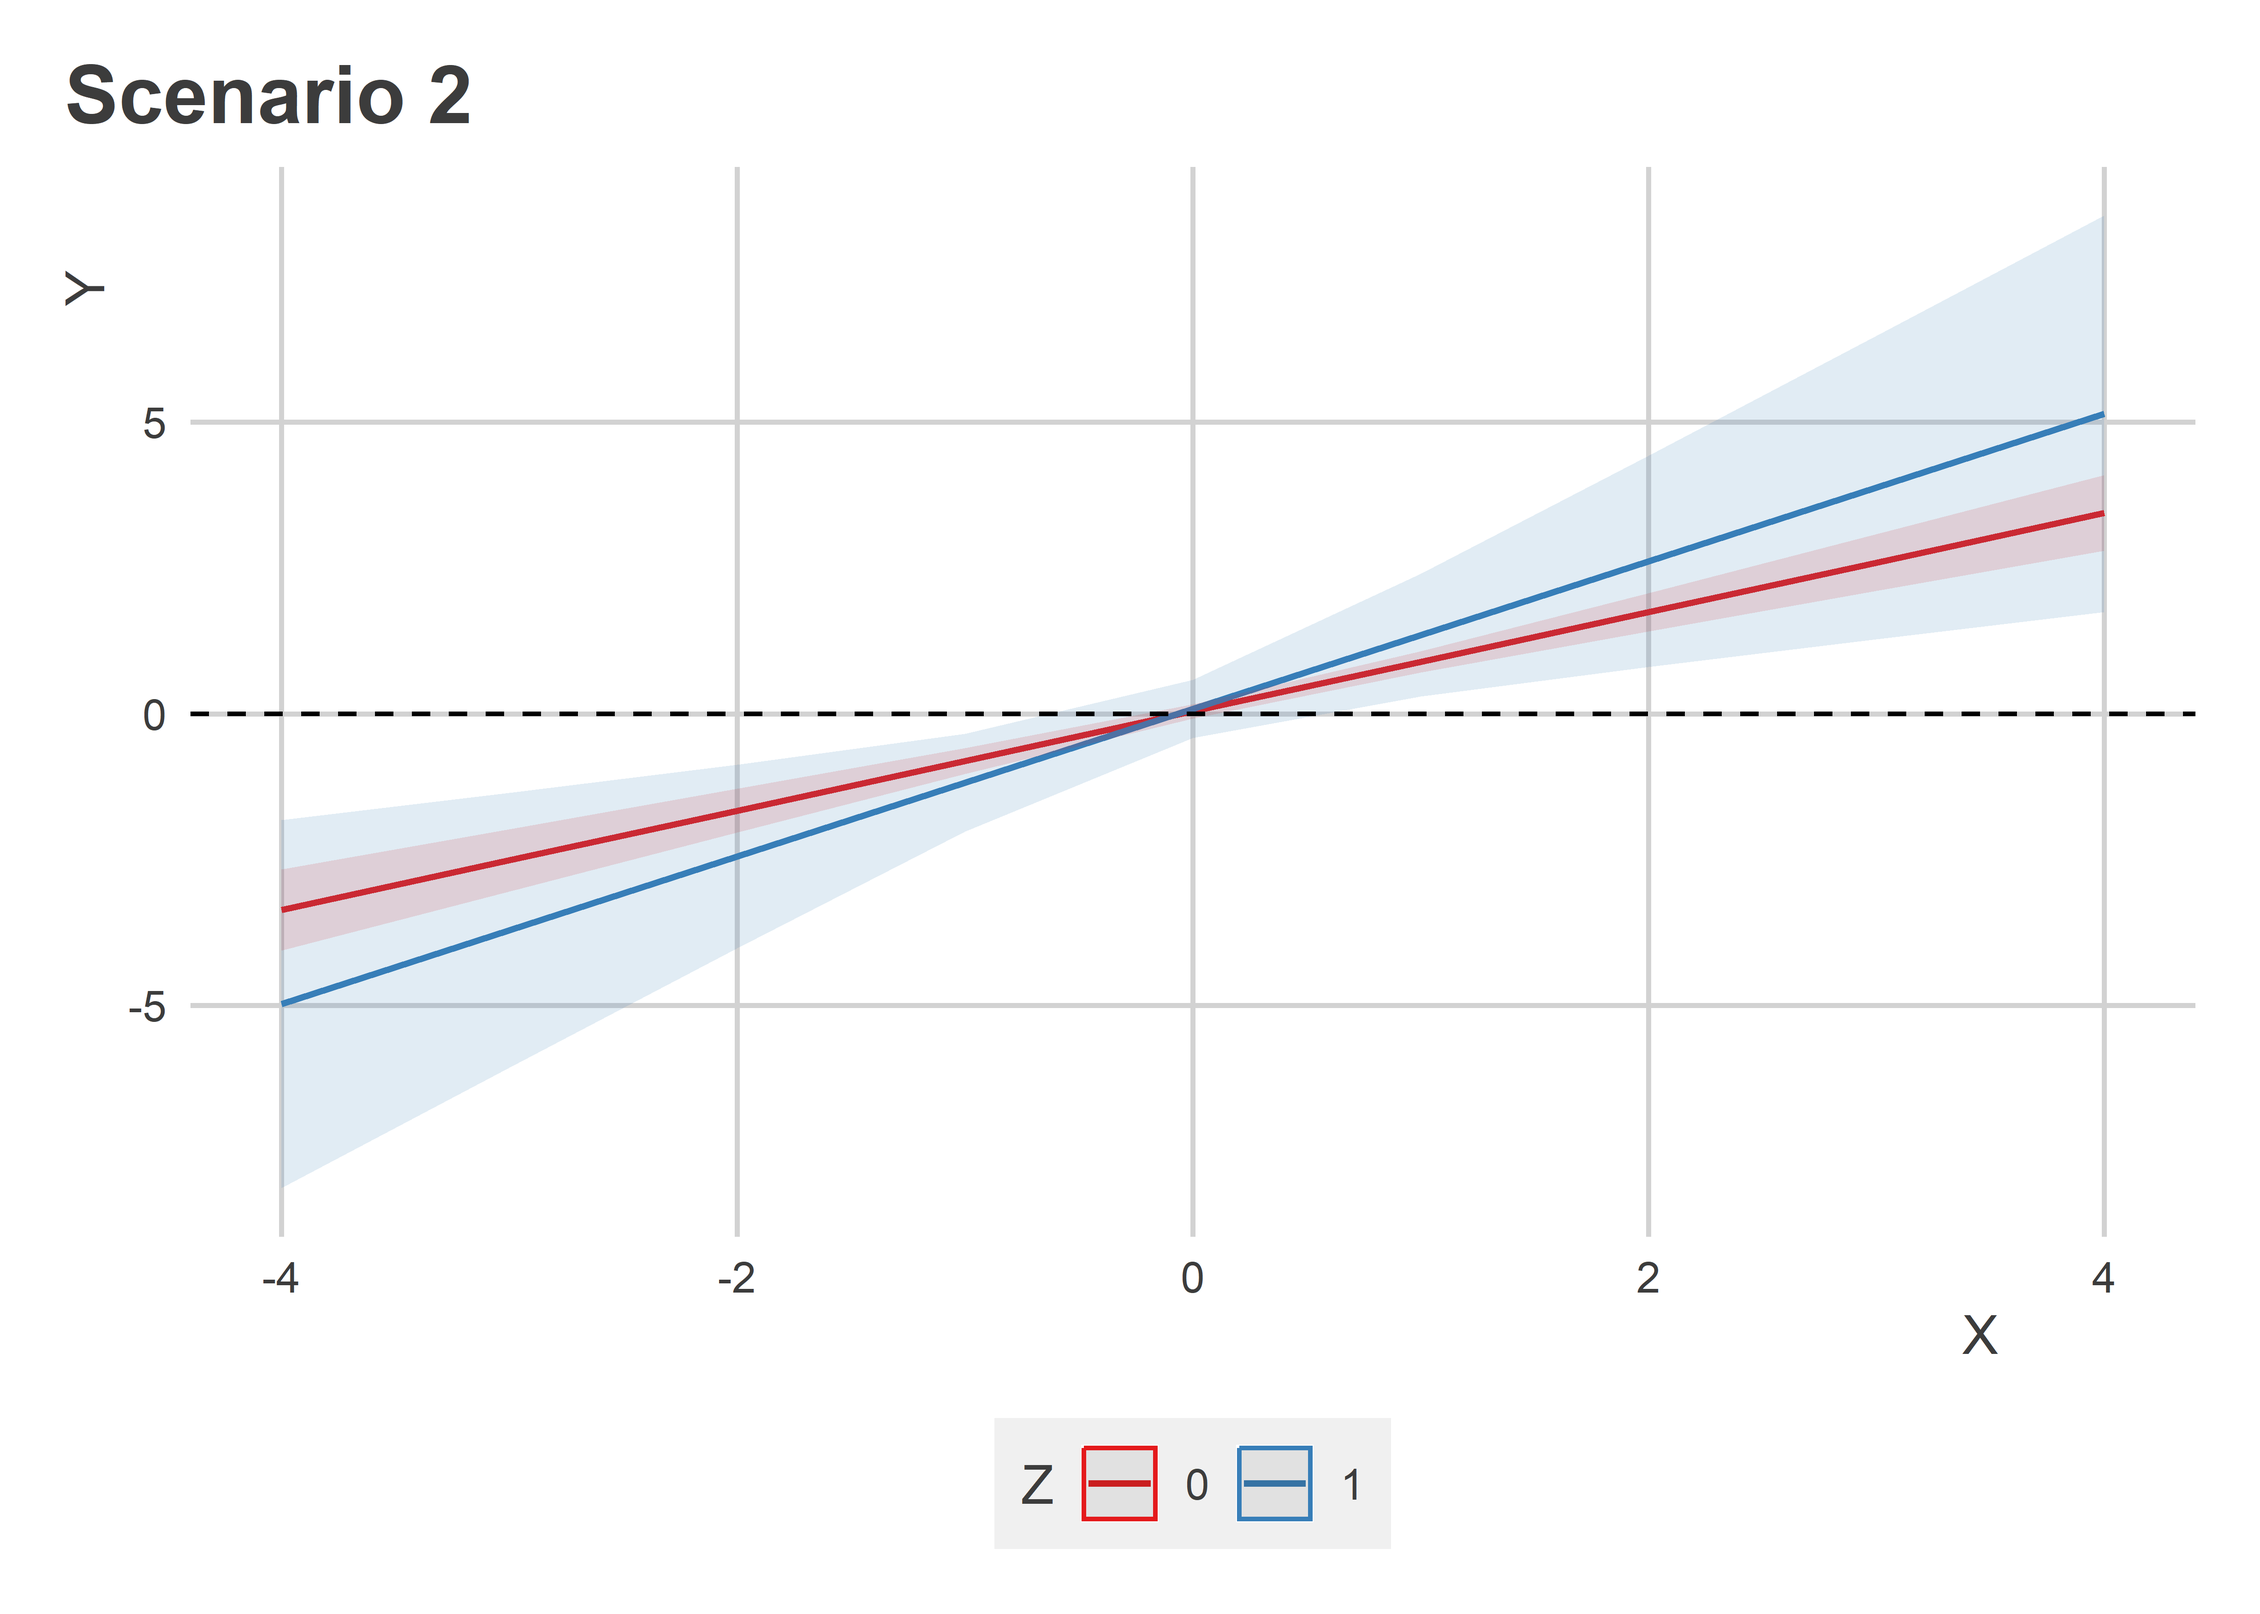
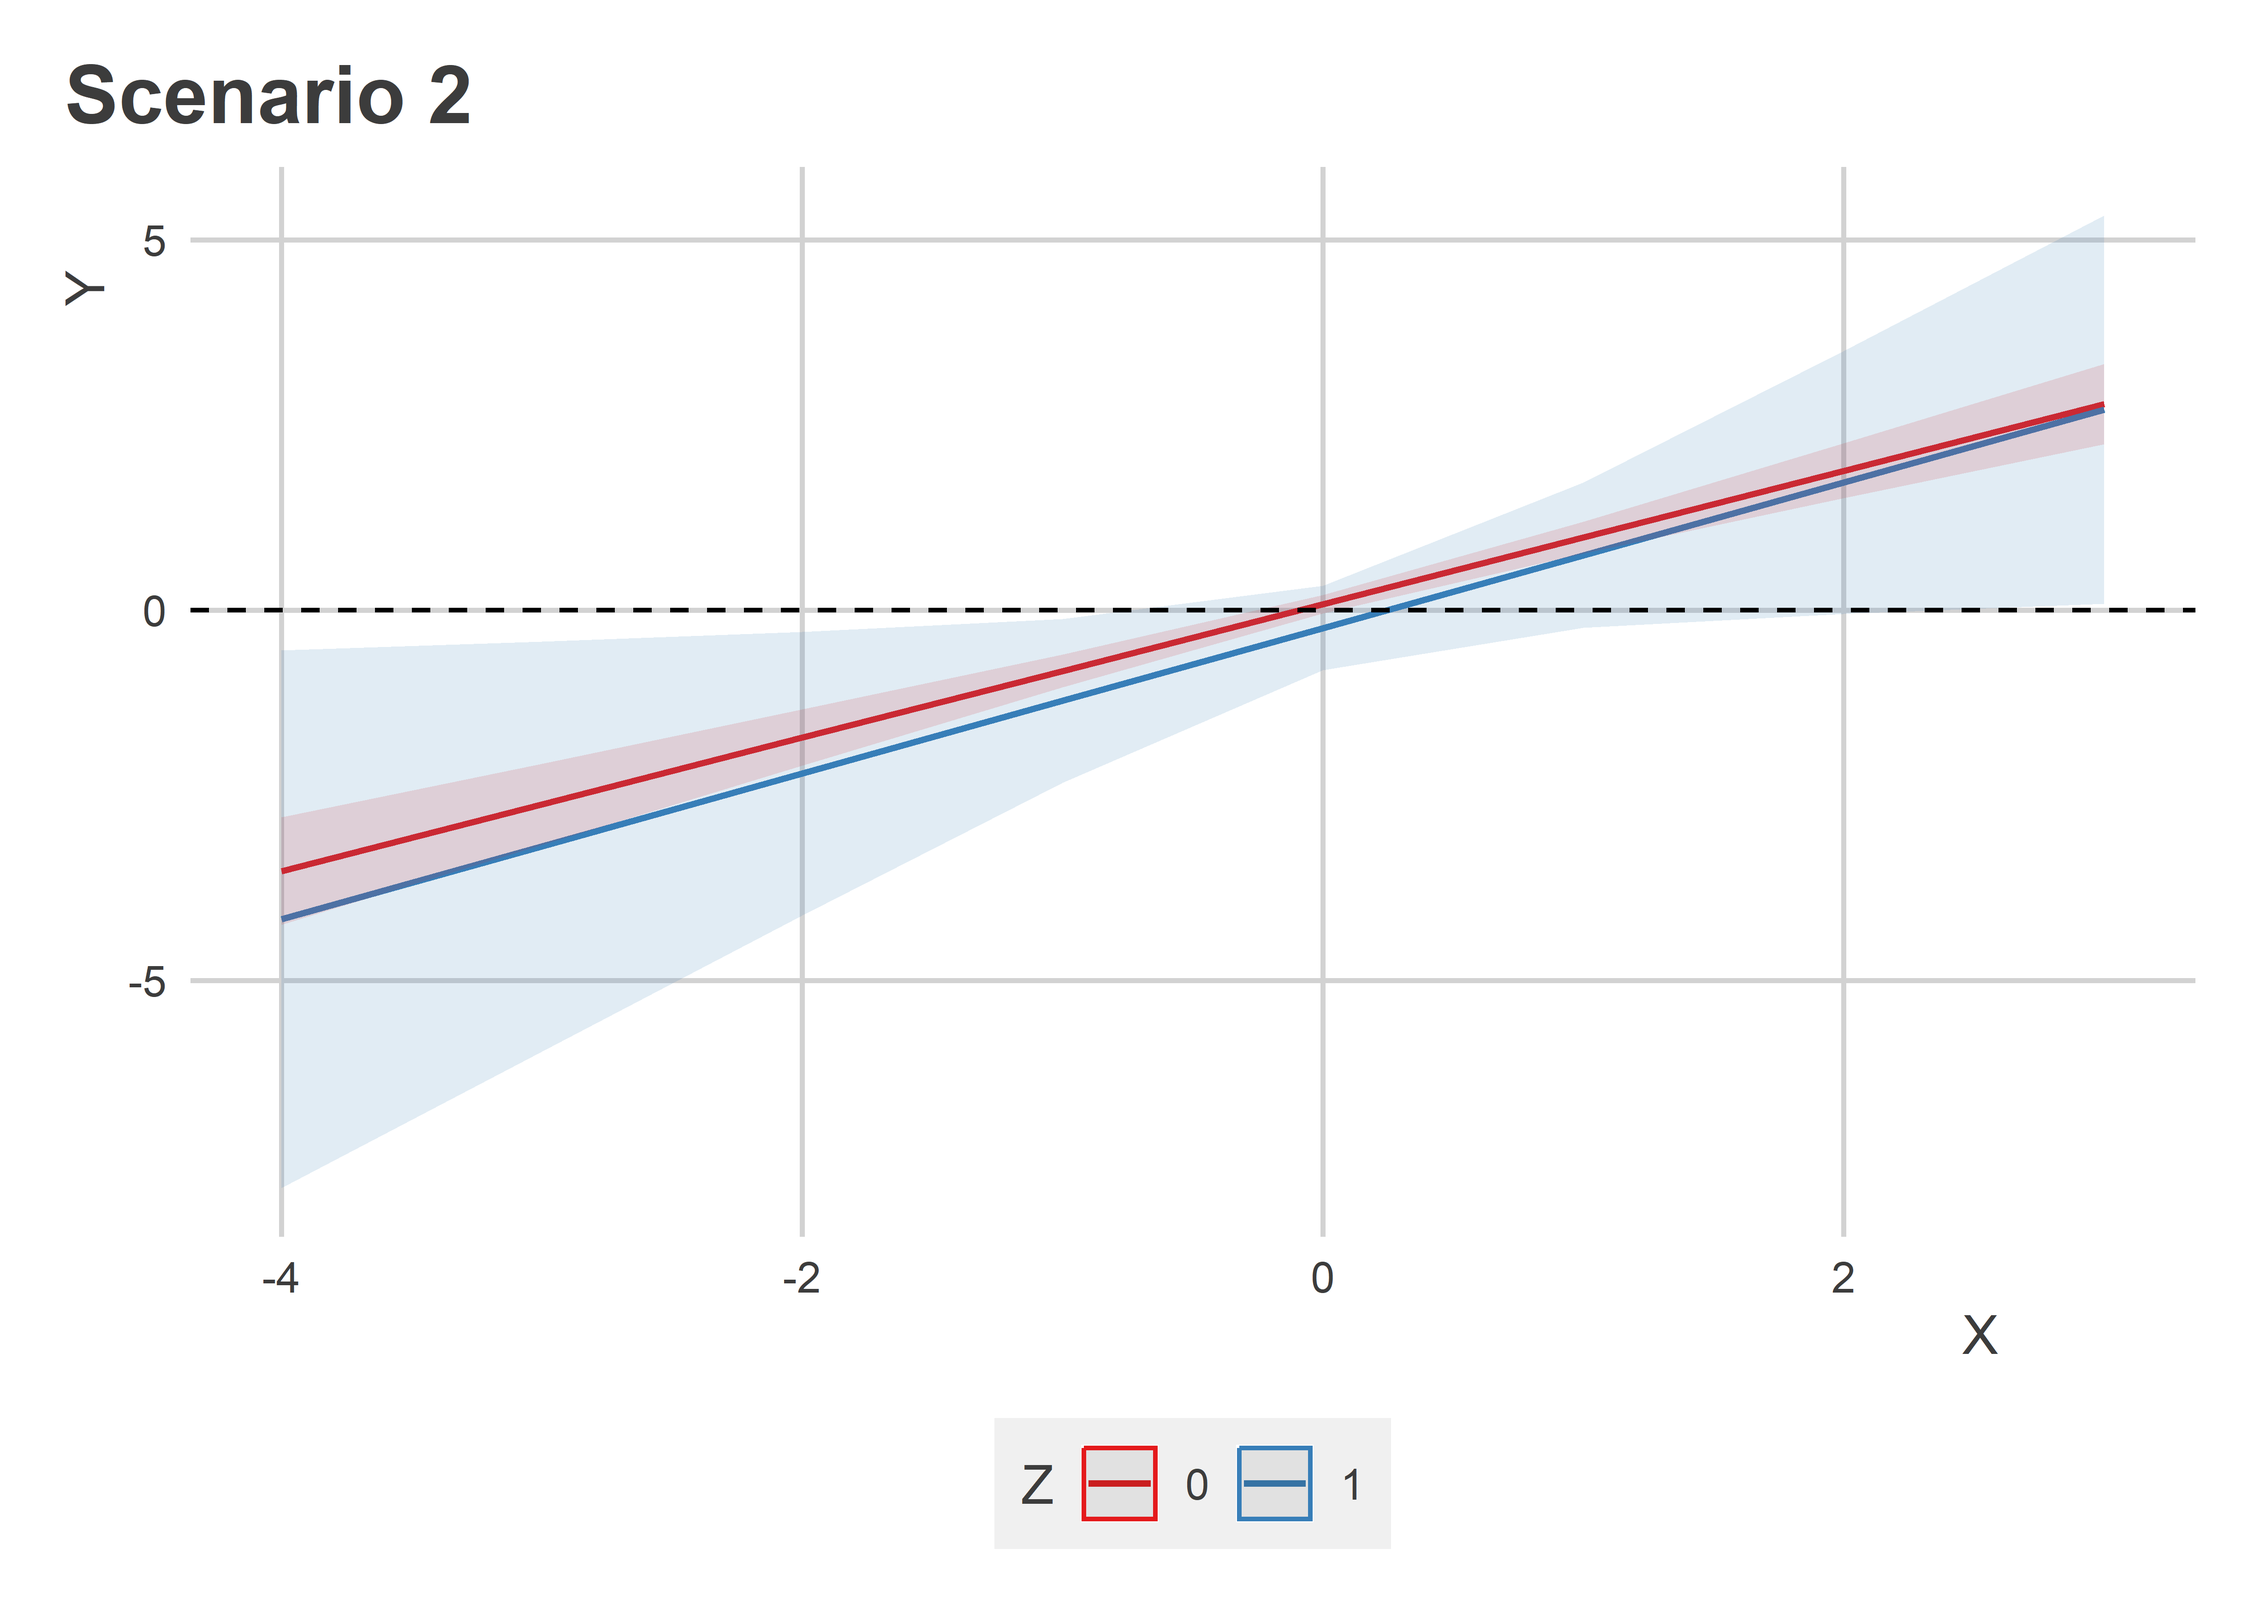
edits

diff --git a/_posts/2023-05-08-interactions.md b/_posts/2023-05-08-interactions.md
@@ -1,5 +1,5 @@
 ---
-title: Is an insignificant interaction unimportant?
+title: Is an Insignificant Interaction Unimportant?
 output:
   md_document:
     variant: gfm
@@ -66,12 +66,12 @@ variable.
 
 ## A Simulation
 
-A simulation will help. Let’s compare two data-generating processes
-(DGP).
+A simulation will help. Let’s compare two data-generating processes or
+DGPs.
 
 To start, we’ll work with an N of 1,000, a normally distributed
-explanatory variable of interest called “X” and a binary conditioning
-variable called “Z”.
+explanatory variable of interest called X, and a binary conditioning
+variable called Z.
 
 ``` r
 N <- 1000
@@ -79,34 +79,33 @@ X <- rnorm(N)
 Z <- rbinom(N, 1, 0.5)
 ```
 
-When we immagine interaction effects, I’d wager that we have something
+When we imagine interaction effects, I’d wager that we have something
 like the following in mind. The below code simulates a DGP for an
-outcome “Y1” as
+outcome as
 *Y* = *β*<sub>0</sub> + *β*<sub>1</sub>*X* + *β*<sub>2</sub>*Z* + *β*<sub>3</sub>*X* ⋅ *Z*.
 For convenience betas 0, 1, and 2 are set to zero. Notice that in the
 construction of the remaining, non-zero beta, that the magnitude is 1,
-but there’s some random effect heterogeneity thrown in the mix to create
-noise.
+but there’s some random heterogeneity thrown in the mix to create noise.
 
 ``` r
 b1 <- 1 + rnorm(N)
 Y1 <- b1 * X * Z + rnorm(N)
 ```
 
-The above scecario implies that the effect of X when Z = 0 is 0, but 1
-when Z = 1. The next case is different. Below we have a DGP where the
-average effect of X is constant given Z, but the variance in the effect
-is not.
+The above scenario implies that the effect of X when Z = 0 is 0 but 1
+when Z = 1. The next scenario below is different. It defines a DGP where
+the average effect of X is constant given Z but where the variance in
+the effect is not.
 
 ``` r
 b2 <- 1 + rnorm(N, sd = 1 + 5 * Z)
 Y2 <- b2 * X + rnorm(N)
 ```
 
-Now, if we compare the results and look at them side-by-side, we should
-see that for the first model, the interaction term for X and Z is
-positive and statistically significant. Meanwhile, the interaction term
-for the second should not be significant.
+Now, if we estimate a pair of regression models for each of these
+outcomes and compare the results, we should see that for the first the
+interaction term for X and Z is positive and statistically significant.
+Meanwhile, the interaction term for the second is not.
 
 ``` r
 library(estimatr)
@@ -122,23 +121,23 @@ screenreg(list(fit1, fit2), include.ci = F)
     ## =====================================
     ##              Model 1      Model 2    
     ## -------------------------------------
-    ## (Intercept)    -0.08         0.04    
-    ##                (0.04)       (0.06)   
-    ## X              -0.09 *       0.85 ***
-    ##                (0.04)       (0.08)   
-    ## Z               0.06         0.04    
-    ##                (0.08)       (0.26)   
-    ## X:Z             1.14 ***     0.41    
-    ##                (0.10)       (0.42)   
+    ## (Intercept)     0.03         0.08    
+    ##                (0.05)       (0.06)   
+    ## X              -0.07         0.90 ***
+    ##                (0.04)       (0.09)   
+    ## Z              -0.00        -0.32    
+    ##                (0.08)       (0.30)   
+    ## X:Z             1.09 ***     0.08    
+    ##                (0.09)       (0.46)   
     ## -------------------------------------
-    ## R^2             0.27         0.06    
-    ## Adj. R^2        0.27         0.06    
+    ## R^2             0.25         0.04    
+    ## Adj. R^2        0.25         0.04    
     ## Num. obs.    1000         1000       
-    ## RMSE            1.21         4.14    
+    ## RMSE            1.25         4.55    
     ## =====================================
     ## *** p < 0.001; ** p < 0.01; * p < 0.05
 
-Now be honest. If you saw the results as presented for Model 2, what
+Now be honest. If you saw the results as presented for model 2, what
 would you conclude? I admit that I’d jump to the conclusion that Z does
 not condition the effect of X on Y.
 
@@ -152,9 +151,8 @@ conditioning variable.
 Simple interaction plots will suffice. The first below shows how the
 marginal effect of X changes given Z. The x-axis shows values of X, the
 y-axis shows predicted values of Y. Blue shows the effect of X when Z =
-1 and red when Z = 0. The results look just like the classic interaction
-term example. When Z = 0, X has no effect, but when Z = 1, X has a
-positive and statistically significant effect.
+1 and red when Z = 0. Clearly, when Z = 0, X has no effect, but when Z =
+1, X has a positive and statistically significant effect.
 
 ``` r
 library(sjPlot)
@@ -176,11 +174,11 @@ plot_model(
 
 ![](/assets/images/2023-05-08/unnamed-chunk-5-1.png)<!-- -->
 
-This is not what we observe with the second sceario. The next figure
-shows how the effect of X on Y changes given Z in model 2. In this case,
-the slope of the effect of X is not statistically different given Z.
-*But*, whether the effect of X is statistically different from zero does
-change given Z.
+This is not what we observe with the second model. The next figure shows
+how the effect of X on Y changes given Z in model 2. In this case, the
+slope of the effect of X is not statistically different given Z. *But*,
+whether the effect of X is statistically different from zero does change
+given Z.
 
 ``` r
 plot_model(
@@ -203,22 +201,14 @@ plot_model(
 
 ## Why care?
 
-There are both mechanical and theoretical reasons why a null interaction
-term might still be relevant for the variance in effects and thus
-condition whether an effect of interest is different from zero.
-Mechanical explanations are less interesting, but still important. I
-should probably write another post about these cases; however, for now I
-want to think about theory.
-
-With respect to theory-driven questions, it’s incumbent on us
-researchers to think carefully about what our theories imply. In both of
-the scenarios above, we observe the same conditional implications for
-the effect of X given Z. When Z = 0, the effect of X on Y is not
-statistically different from zero. But, when Z = 1, the effect of X is
-different from zero. Do we care whether it also is the case that the
-marginal effect of X is statistically different given Z? Or is it
-immaterial to our theory? Sometimes the answer to the second question is
-“yes,” but we proceed as if the answer is “no” if we use the
+It’s incumbent on us researchers to think carefully about what our
+theories imply. In both of the scenarios above, we observe the same
+conditional implications for the effect of X given Z. When Z = 0, the
+effect of X on Y is not statistically different from zero. But, when Z =
+1, the effect of X is different from zero. Do we care whether it also is
+the case that the marginal effect of X is statistically different given
+Z? Or is it immaterial to our theory? Sometimes the answer to the second
+question is “yes,” but we proceed as if the answer is “no” if we use the
 significance of the interaction term as a test of our conditional
 hypothesis.
 
